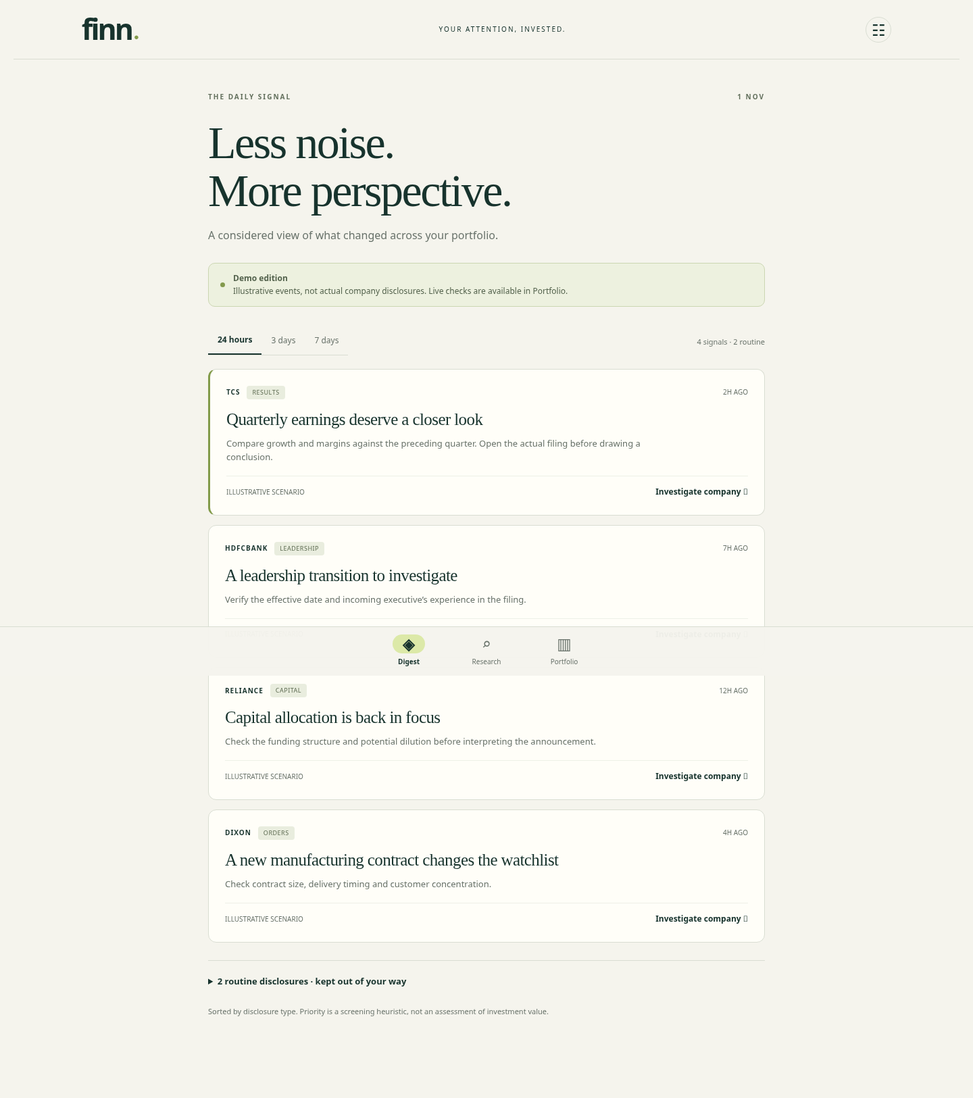
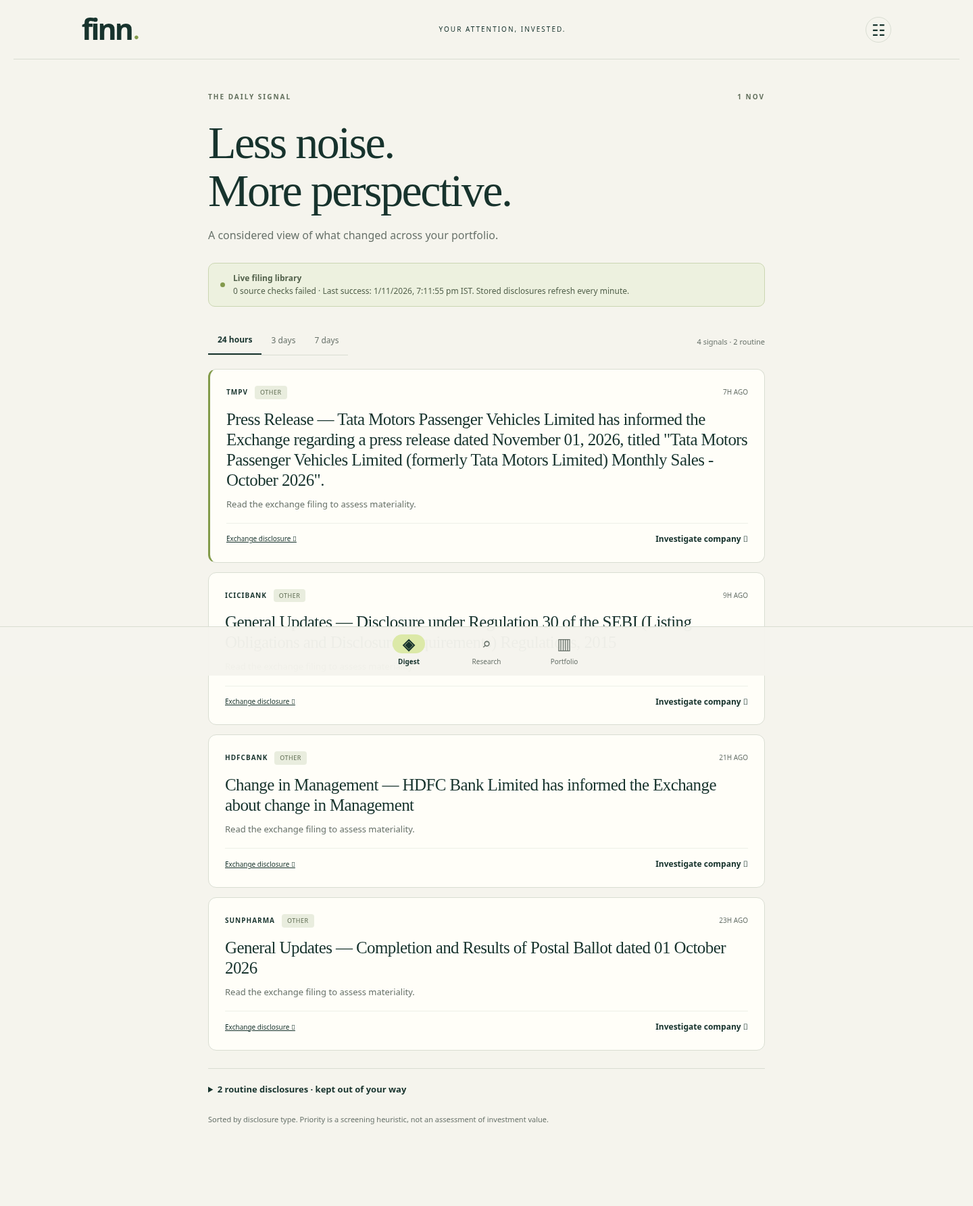
Start automatic ingestion and resolve legacy Tata Motors symbol

diff --git a/tests/test_worker.py b/tests/test_worker.py
@@ -1,0 +1,48 @@
+import os
+import tempfile
+import threading
+import unittest
+from pathlib import Path
+from unittest.mock import MagicMock, patch
+from finn.core import db, PORTFOLIO
+from finn.ingestion import poll, run_worker
+from finn.providers import prices, announcements
+
+
+class WorkerTests(unittest.TestCase):
+ def test_stop_prevents_any_source_requests(self):
+  stop = threading.Event()
+  stop.set()
+  with patch('finn.ingestion.ingest') as ingest:
+   self.assertEqual(poll(['TCS'], stop_event=stop), [])
+   ingest.assert_not_called()
+
+ def test_poll_failure_does_not_stop_other_sources(self):
+  with patch('finn.ingestion.ingest', side_effect=[OSError('offline'), {}, [], {}]) as ingest:
+   self.assertEqual(poll(['TCS', 'INFY']), [{'ticker':'TCS','kind':'announcements'}])
+   self.assertEqual(ingest.call_count, 4)
+
+ def test_worker_polls_immediately_then_waits_interruptibly(self):
+  stop = MagicMock()
+  stop.is_set.return_value = False
+  stop.wait.return_value = True
+  with patch('finn.ingestion.poll', return_value=[]) as poll_once, patch('builtins.print'):
+   run_worker(900, stop, ['TMPV'])
+  poll_once.assert_called_once_with(['TMPV'], None, stop)
+  stop.wait.assert_called_once_with(900)
+  with self.assertRaises(ValueError): run_worker(1, stop)
+
+ def test_data_directory_can_be_mounted_independently(self):
+  with tempfile.TemporaryDirectory() as temp, patch.dict(os.environ, {'FINN_DATA_DIR':temp}):
+   with db() as con: con.execute("INSERT INTO documents VALUES ('test','TCS','Title','Annual report','','text','now')")
+   with db() as con: self.assertEqual(con.execute('SELECT count(*) FROM documents').fetchone()[0], 1)
+   self.assertTrue((Path(temp)/'finn.sqlite').exists())
+
+ def test_legacy_symbol_explains_successors_without_fetching(self):
+  with patch('finn.providers.fetch') as fetch:
+   for provider in (prices, announcements):
+    with self.assertRaisesRegex(ValueError,'TMPV.*TMCV'):
+     provider('TATAMOTORS.NS')
+   fetch.assert_not_called()
+  self.assertIn('TMPV', {row[0] for row in PORTFOLIO})
+  self.assertNotIn('TATAMOTORS', {row[0] for row in PORTFOLIO})

diff --git a/server.py b/server.py
@@ -4,10 +4,11 @@ import base64
 import io
 import json
 import math
+import threading
 from http.server import ThreadingHTTPServer, BaseHTTPRequestHandler
 from urllib.parse import urlparse,parse_qs
 from finn.core import ROOT, PORTFOLIO, add_document, research, db
-from finn.ingestion import ingest, digest
+from finn.ingestion import ingest, digest, run_worker
 
 class Handler(BaseHTTPRequestHandler):
  def send(self,status,data,ctype='application/json'):
@@ -59,9 +60,32 @@ class Handler(BaseHTTPRequestHandler):
   except (ValueError,TypeError,KeyError) as e: self.send(400,{'error':str(e)})
   except Exception: self.send(400,{'error':'Could not read this document. Try a text-based PDF or a UTF-8 text file.'})
 
-if __name__=='__main__':
- parser=argparse.ArgumentParser(); parser.add_argument('--host',default='127.0.0.1'); parser.add_argument('--port',type=int,default=8000); args=parser.parse_args()
- (ROOT/'data').mkdir(exist_ok=True)
+def main():
+ parser=argparse.ArgumentParser()
+ parser.add_argument('--host',default='127.0.0.1')
+ parser.add_argument('--port',type=int,default=8000)
+ parser.add_argument('--poll-interval',type=int,default=900,help='Seconds between portfolio polls; 0 disables the built-in worker')
+ args=parser.parse_args()
+ if args.poll_interval != 0 and args.poll_interval < 900:
+  parser.error('--poll-interval must be 0 or at least 900')
  with db(): pass
- print(f'FINN listening on {args.host}:{args.port}',flush=True)
- ThreadingHTTPServer((args.host,args.port),Handler).serve_forever()
+ server=ThreadingHTTPServer((args.host,args.port),Handler)
+ stop=threading.Event()
+ worker=None
+ if args.poll_interval:
+  worker=threading.Thread(target=run_worker,args=(args.poll_interval,stop),daemon=True,name='portfolio-ingestion')
+  worker.start()
+ print(f'FINN listening on {args.host}:{server.server_port}',flush=True)
+ try:
+  server.serve_forever()
+ except KeyboardInterrupt:
+  pass
+ finally:
+  stop.set()
+  server.server_close()
+  if worker is not None:
+   worker.join(timeout=2)
+
+
+if __name__=='__main__':
+ main()

diff --git a/finn/providers.py b/finn/providers.py
@@ -7,6 +7,12 @@ import urllib.parse
 import urllib.request
 from .core import ticker, classify, PRIORITY, alerts
 
+def market_symbol(value):
+ symbol = ticker(value)
+ if symbol.removesuffix('.NS') == 'TATAMOTORS':
+  raise ValueError('TATAMOTORS is a legacy NSE symbol. Choose TMPV (Tata Motors Passenger Vehicles) or TMCV (Tata Motors); histories are not merged.')
+ return symbol
+
 _cache={}
 def fetch(url,opener=None):
  if url in _cache and time.time()-_cache[url][0]<900: return _cache[url][1]
@@ -20,7 +26,7 @@ def fetch(url,opener=None):
  return data
 
 def prices(symbol,price_threshold=4,volume_threshold=2):
- symbol=ticker(symbol)
+ symbol=market_symbol(symbol)
  yahoo=symbol if symbol.endswith(('.NS','.BO')) else symbol+'.NS'
  result=fetch('https://query1.finance.yahoo.com/v8/finance/chart/'+urllib.parse.quote(yahoo)+'?range=3mo&interval=1d')['chart']
  if result.get('error'): raise ValueError(result['error'].get('description','Price source error'))
@@ -34,7 +40,7 @@ def prices(symbol,price_threshold=4,volume_threshold=2):
  return dict(output,ticker=symbol,close=rows[-1][1],as_of=dt.datetime.fromtimestamp(rows[-1][0],dt.timezone.utc).isoformat(),source='https://finance.yahoo.com/quote/'+urllib.parse.quote(yahoo),currency=chart['meta'].get('currency'),baseline_days=min(20,len(rows)-1),bars=[dict(as_of=dt.datetime.fromtimestamp(t,dt.timezone.utc).isoformat(),close=c,volume=v) for t,c,v in rows])
 
 def announcements(symbol):
- symbol=ticker(symbol).removesuffix('.NS')
+ symbol=market_symbol(symbol).removesuffix('.NS')
  if symbol.endswith('.BO'): raise ValueError('This filing adapter supports NSE symbols; BSE filings are not implemented.')
  opener=urllib.request.build_opener(urllib.request.HTTPCookieProcessor(http.cookiejar.CookieJar()))
  with opener.open(urllib.request.Request('https://www.nseindia.com',headers={'User-Agent':'Mozilla/5.0'}),timeout=15) as response: response.read(1024)

diff --git a/finn/ingestion.py b/finn/ingestion.py
@@ -53,7 +53,7 @@ def ingest(symbol, kind, path=None, price=4, volume=2):
   raise
 
 
-def digest(path=None, hours=48):
+def digest(path=None, hours=168):
  now = dt.datetime.now(dt.timezone.utc)
  cutoff = now - dt.timedelta(hours=hours)
  with storage(path) as con:
@@ -61,17 +61,31 @@ def digest(path=None, hours=48):
   status = [dict(row) for row in con.execute('SELECT * FROM ingestion_status ORDER BY ticker,kind')]
  items = [json.loads(row['payload']) for row in rows]
  universe = {symbol for symbol, _, _ in PORTFOLIO}
+ status = [entry for entry in status if entry['ticker'] in universe]
  items = [item for item in items if item['ticker'] in universe and cutoff <= dt.datetime.fromisoformat(item['timestamp']) <= now]
  items.sort(key=lambda item: (item['priority'], item['timestamp']), reverse=True)
  return {'mode': 'live', 'items': items, 'ingestion': status, 'as_of': now.isoformat()}
 
 
-def poll(symbols=None, path=None):
+def poll(symbols=None, path=None, stop_event=None):
  failures = []
  for symbol in symbols or [row[0] for row in PORTFOLIO]:
   for kind in ('announcements', 'prices'):
+   if stop_event is not None and stop_event.is_set():
+    return failures
    try:
     ingest(symbol, kind, path)
    except Exception:
     failures.append({'ticker': symbol, 'kind': kind})
  return failures
+
+
+def run_worker(interval, stop_event, symbols=None, path=None):
+ """Poll immediately, then wait interruptibly; keep upstream failures isolated."""
+ if interval < 900:
+  raise ValueError('Polling interval must be at least 900 seconds')
+ while not stop_event.is_set():
+  failures = poll(symbols, path, stop_event)
+  print(json.dumps({'ingestion_failures': failures}), flush=True)
+  if stop_event.wait(interval):
+   break

diff --git a/scripts/browser_check.py b/scripts/browser_check.py
@@ -9,10 +9,15 @@ with sync_playwright() as p:
  errors=[]
  page.on('pageerror',lambda e:errors.append(str(e)))
  page.goto('http://127.0.0.1:8000',wait_until='networkidle')
- page.locator('#digest .card').first.wait_for()
- assert page.locator('#digest .card').count()==4
- page.get_by_role('button',name='3 days',exact=True).click()
- assert page.locator('#digest .card').count()==5
+ page.wait_for_function("document.querySelector('#event-count').textContent.includes('signals')")
+ feed=page.request.get('http://127.0.0.1:8000/api/digest').json()
+ assert feed['mode']=='live'
+ for label,hours in [('24 hours',24),('3 days',72),('7 days',168)]:
+  page.get_by_role('button',name=label,exact=True).click()
+  expected=page.evaluate('(args)=>args.items.filter(e=>e.category!=="Routine" && (Date.now()-new Date(e.timestamp))/3600000<=args.hours).length',{'items':feed['items'],'hours':hours})
+  assert page.locator('#digest .card').count()==expected
+ assert page.locator('#digest a').count()==page.locator('#digest .card').count()
+ page.get_by_role('button',name='24 hours',exact=True).click()
  assert page.evaluate('document.documentElement.scrollWidth <= innerWidth')
  (ROOT/'artifacts').mkdir(exist_ok=True)
  page.screenshot(path=str(ROOT/'artifacts/mobile-digest.png'),full_page=True,animations='disabled')

diff --git a/finn/core.py b/finn/core.py
@@ -1,5 +1,6 @@
 import datetime as dt
 import hashlib
+import os
 import re
 import sqlite3
 from pathlib import Path
@@ -10,7 +11,7 @@ PORTFOLIO = [
  ('HDFCBANK','HDFC Bank','Banking'),('ICICIBANK','ICICI Bank','Banking'),
  ('INFY','Infosys','IT'),('BHARTIARTL','Bharti Airtel','Telecom'),
  ('ITC','ITC','Consumer'),('LT','Larsen & Toubro','Industrials'),
- ('SUNPHARMA','Sun Pharma','Healthcare'),('TATAMOTORS','Tata Motors','Auto'),
+ ('SUNPHARMA','Sun Pharma','Healthcare'),('TMPV','Tata Motors Passenger Vehicles','Auto'),
  ('TITAN','Titan','Consumer'),('ASIANPAINT','Asian Paints','Materials'),
  ('NTPC','NTPC','Utilities'),('TRENT','Trent','Retail'),
  ('DIXON','Dixon Technologies','Electronics'),('POLYCAB','Polycab India','Industrials'),
@@ -46,7 +47,7 @@ def alerts(closes, volumes, price_threshold=4, volume_threshold=2):
  'volume_ratio':round(ratio,2) if ratio is not None else None,'triggers':triggers}
 
 def db(path=None):
- target = Path(path) if path else ROOT/'data'/'finn.sqlite'
+ target = Path(path) if path else Path(os.environ.get('FINN_DATA_DIR', str(ROOT/'data')))/'finn.sqlite'
  target.parent.mkdir(parents=True, exist_ok=True)
  con=sqlite3.connect(target, timeout=30)
  con.row_factory=sqlite3.Row

diff --git a/scripts/ingest.py b/scripts/ingest.py
@@ -2,9 +2,8 @@
 """Run from the repository root: python -m scripts.ingest [--ticker TCS]."""
 import argparse
 import json
-import time
-from finn.core import ROOT
-from finn.ingestion import poll
+import threading
+from finn.ingestion import poll, run_worker
 
 if __name__ == '__main__':
  parser = argparse.ArgumentParser(description=__doc__)
@@ -13,10 +12,13 @@ if __name__ == '__main__':
  args = parser.parse_args()
  if args.interval and args.interval < 900:
   parser.error('--interval must be 0 or at least 900')
- (ROOT / 'data').mkdir(exist_ok=True)
- while True:
+ if args.interval:
+  stop = threading.Event()
+  try:
+   run_worker(args.interval, stop, args.ticker)
+  except KeyboardInterrupt:
+   stop.set()
+ else:
   failures = poll(args.ticker)
   print(json.dumps({'failures': failures}), flush=True)
-  if not args.interval:
-   raise SystemExit(bool(failures))
-  time.sleep(args.interval)
+  raise SystemExit(bool(failures))

diff --git a/tests/test_ingestion.py b/tests/test_ingestion.py
@@ -24,7 +24,8 @@ class IngestionTests(unittest.TestCase):
    ingest('TCS', 'announcements', self.path)
   with storage(self.path) as con:
    self.assertEqual(con.execute('SELECT count(*) FROM live_items').fetchone()[0], 3)
-  result = digest(self.path)
+  result = digest(self.path, hours=48)
+  self.assertEqual({i['id'] for i in digest(self.path)['items']}, {'123', 'old'})
   self.assertEqual([i['id'] for i in result['items']], ['123'])
   self.assertEqual(result['mode'], 'live')
 
@@ -61,6 +62,7 @@ class IngestionTests(unittest.TestCase):
   with patch('finn.providers.announcements', return_value=[self.filing(symbol='OTHER')]):
    ingest('OTHER', 'announcements', self.path)
   self.assertEqual(digest(self.path)['items'], [])
+  self.assertEqual(digest(self.path)['ingestion'], [])
 
  def test_missing_exchange_id_is_stable_across_response_order(self):
   first = self.filing(None)

diff --git a/docs/LIVE_INGESTION.md b/docs/LIVE_INGESTION.md
@@ -7,11 +7,11 @@ python -m scripts.ingest --ticker TCS
 python -m scripts.ingest --interval 900
 ```
 
-The first command performs a targeted check; omit `--ticker` to ingest the 18-company portfolio. The second runs a foreground worker until stopped. Supervise it with your host's process manager alongside the web server, using the same persistent `data/` directory. It is not automatically deployed by render.yaml. Polls are sequential, with 15-minute source caching and a minimum 15-minute worker interval after each completed cycle. One-shot failures return a nonzero exit status; worker failures are reported and retried on the next cycle.
+The first command performs a targeted check; omit `--ticker` to ingest the 18-company portfolio. The server now starts a background worker automatically, polling immediately and waiting 900 seconds after each completed cycle. The existing Render start command inherits this behavior without a deployment change. `--poll-interval 0` disables it. The second command above is an alternative foreground worker; disable the built-in worker if supervising this alternative alongside the server. Both use `FINN_DATA_DIR` (default `data/`); point it at a persistent mounted directory. A mount must still be provisioned by the hosting account. Polls are sequential, with 15-minute source caching and a minimum 15-minute worker interval after each completed cycle. One-shot failures return a nonzero exit status; worker failures are reported and retried on the next cycle.
 
 SQLite stores exchange filings by symbol and exchange ID (content hash fallback) and completed daily bars by symbol and timestamp. Repeated polls update records without adding duplicate rows. Batches with missing dates/citations are rejected atomically. Failed sources retain their previous records and last-success time, with an explicit failed-attempt status. These records survive process restarts when data/ is persistent. Back up the SQLite database and supply disk capacity monitoring for extended use; retention pruning is not implemented.
 
-`/api/prices` and `/api/announcements` also persist successful fetches. `/api/digest` reads stored portfolio announcements from the last 48 hours, excludes future dates, and never fills gaps with demo data. Browser windows filter those records further. The digest shows filing links and ingestion failure status. Price records are persisted separately; they are not classified as exchange announcements. Browser thresholds apply to manual price requests; the worker uses default thresholds. No push notifications are sent.
+`/api/prices` and `/api/announcements` also persist successful fetches. `/api/digest` reads stored portfolio announcements from the last seven days, excludes future dates, and never fills gaps with demo data. Browser windows filter those records to 24 hours, three days or seven days. Status shows only current portfolio symbols, while old and ad-hoc records remain stored. The digest shows filing links and ingestion failure status. Price records are persisted separately; they are not classified as exchange announcements. Browser thresholds apply to manual price requests; the worker uses default thresholds. No push notifications are sent.
 
 # Real-document validation
 
@@ -32,3 +32,12 @@ Research validation passed against the actual Infosys FY2025 integrated annual r
 Sixteen automated tests cover core retrieval, durable ingestion, deduplication, invalid-batch atomicity, time windows, failure retention and real-shaped NSE missing attachments. HTTP smoke tests passed for the page, JavaScript, health and live digest. JavaScript syntax and Python compilation checks passed. The worker is implemented but no hosting service or environment was republished.
 
 Final portfolio run stored 36,397 announcements across 17 symbols and 1,088 EOD bars across 17 symbols. The remaining portfolio symbol returned no NSE disclosures. The 48-hour digest contained 25 actual disclosures when checked. CDSL's initially failed announcement request succeeded on retry. Yahoo returned HTTP 404 for TATAMOTORS; this remains an explicit failed check, without silently substituting another company/security. Portfolio tickers need ongoing maintenance after corporate actions. The local public-source research library contains both actual Infosys documents; runtime SQLite data is excluded from Git, so a fresh checkout must ingest data separately.
+
+
+## Follow-up implementation — 1 November 2026
+
+The official NSE security master identifies TMPV as Tata Motors Passenger Vehicles Limited, ISIN INE155A01022, and TMCV as Tata Motors Limited, ISIN INE1TAE01010. The mock portfolio now explicitly holds TMPV. Legacy TATAMOTORS live requests return an actionable validation error naming both choices; no price or filing histories are merged or deleted. Actual TMPV ingestion succeeded for 2,804 filings and completed EOD prices. See evaluation/nse-symbol-verification.json for sources and observed results.
+
+The server-started worker completed the full updated portfolio poll with zero source failures. Cancellation is checked between source requests; interval waits are interruptible. An in-flight source request may run until its existing timeout when shutting down. Use one server process for this single-user prototype; multiple processes would each create a worker unless disabled. Workers run while the process is alive; a free host may sleep or restart, and its ephemeral filesystem still does not provide durable hosting.
+
+Twenty-one unit tests pass. Updated Chromium checks compare the UI to actual stored filings rather than obsolete demo counts, including all digest windows, citations, mobile overflow, upload/retrieval and settings. Mobile and desktop screenshots were refreshed. No physical-phone testing, hosting deployment, environment publication or submission was performed.

diff --git a/README.md b/README.md
@@ -13,7 +13,7 @@ Open the server in your browser. The default binding is local. For a hosted demo
 
 ## Try it
 
-1. Digest: change the time window, expand routine disclosures, investigate a company. The digest reads persisted exchange filings; an empty library stays empty. Run the ingestion worker first (see below).
+1. Digest: change the time window, expand routine disclosures, investigate a company. The digest reads persisted exchange filings; an empty library stays empty. The server starts its ingestion worker automatically; first-run source checks may take a few minutes.
 2. Research: choose any valid NSE symbol or `.BO` symbol. Upload an actual primary-source PDF/text document; ask a focused question and inspect verbatim, page-numbered evidence. For a deterministic demonstration, use `docs/synthetic-transcript.txt` with symbol `DEMO`. That file is fictional and clearly marked.
 3. Portfolio: inspect the 18-company universe. Enter a symbol and request EOD prices or NSE filings. Failures are explicit; live failures never silently produce demo data.
 4. Settings: change price/volume thresholds, saved in browser local storage and applied on the next price request.
@@ -25,18 +25,18 @@ Open the server in your browser. The default binding is local. For a hosted demo
 node --check web/app.js
 ```
 
-Sixteen automated tests pass, including persistence, deduplication, time windows and source-failure retention. The following browser verification describes the earlier prototype: eight core tests passed. HTTP checks passed for the page, static assets, health, portfolio, digest, document ingestion and cited retrieval. PDF text extraction was verified with the supplied four-page brief. Chromium checks passed at 390px mobile and 1440px desktop widths: digest windows, upload, page-cited retrieval, saved settings and portfolio. No JavaScript errors or mobile horizontal overflow were observed. Screenshots are in `artifacts/`; repeat with `python3 scripts/browser_check.py` in a Playwright-equipped environment.
+Twenty-one automated tests pass, including durable ingestion, source-failure retention, worker cancellation, and configurable storage. Chromium checks pass at 390px mobile and 1440px desktop widths against live filings: all three digest windows, upload, page-cited retrieval, saved settings and portfolio. No JavaScript errors or mobile horizontal overflow were observed. Updated screenshots are in `artifacts/`; repeat with `.venv/bin/python scripts/browser_check.py` in a Playwright-equipped environment with the server running on port 8000.
 
 ## Current boundaries
 
-The digest now reads persistent live filing records. Manual source checks and a polling worker store filings and completed EOD bars in SQLite. Public internet access, TCS NSE filing ingestion and Yahoo EOD ingestion were verified. Research citation checks passed against Infosys’s actual FY2025 annual report and Q4 earnings transcript; manifests and PDF hashes are in `docs/evaluation/`. Research is extractive retrieval; it does not generate financial conclusions or independently verify uploaded provenance. Automatic primary-document discovery, financial comparisons and push notifications are not implemented.
+The digest now reads persistent live filing records. Manual source checks and the built-in polling worker store filings and completed EOD bars in SQLite. Public internet access, TCS NSE filing ingestion and Yahoo EOD ingestion were verified. Research citation checks passed against Infosys’s actual FY2025 annual report and Q4 earnings transcript; manifests and PDF hashes are in `docs/evaluation/`. Research is extractive retrieval; it does not generate financial conclusions or independently verify uploaded provenance. The former TATAMOTORS holding now uses officially verified TMPV; legacy lookups explain both successor symbols without merging histories. Automatic primary-document discovery, financial comparisons and push notifications are not implemented.
 
 ```bash
 python -m scripts.ingest --ticker TCS
 python -m scripts.ingest --interval 900
 ```
 
-Run the worker alongside the server with a shared persistent data directory. See `docs/LIVE_INGESTION.md` for operation, failure semantics, and a reproducible actual-PDF research validation command.
+The server polls immediately on startup and every 900 seconds after each cycle. Set `FINN_DATA_DIR` to a persistent mounted directory. Use `--poll-interval 0` when running the standalone worker above to avoid duplicate pollers. See `docs/LIVE_INGESTION.md` for operation, failure semantics, and a reproducible actual-PDF research validation command.
 
 See `docs/RESEARCH.md`, `docs/ARCHITECTURE.md`, `docs/COVERING_NOTE.md`, `docs/SUBMISSION_CHECKLIST.md` and `docs/BUILD_HISTORY.md`.
 

diff --git a/docs/BUILD_HISTORY.md b/docs/BUILD_HISTORY.md
@@ -18,3 +18,6 @@ Attach the actual conversation export/share link separately. Do not represent th
 10. Pushed to https://github.com/Glenap/Enam_competition on main. A fresh clone installed its dependencies and passed all eight core tests. Render deployment, live-source validation and submission remain blocked on account access, network settings and an authentic conversation export.
 
 11. Continued implementation on main: added durable filing/EOD ingestion, polling worker, deduplication, failure retention, indexed UTC time windows and a real-source digest with minute refreshes. The approved execution path verified internet access; initial sandbox-only proxy failures did not describe runtime connectivity. Actual portfolio ingestion stored 36,397 disclosures and 1,088 daily bars. TATAMOTORS Yahoo prices still returned HTTP 404. Validated actual Infosys FY2025 annual-report and Q4 transcript quotes against physical PDF pages, recorded source hashes and reusable evaluation manifests, and indexed the real documents locally. Sixteen tests, JavaScript syntax, Python compilation and HTTP checks passed, including real digest records and research citations. No environment or hosting service was republished.
+
+
+12. Finished the legacy-symbol and startup-polling follow-up. Verified TMPV and TMCV against the official NSE security master, explicitly replaced the mock holding with TMPV and retained separate historical symbols. Actual TMPV filing/price ingestion succeeded; the server's default background poll completed with no source failures. Added FINN_DATA_DIR for persistent mounts and cooperative worker cancellation. Corrected the digest backend to supply all seven days supported by the UI, filtered portfolio status to current symbols, updated browser checks to use real data, and refreshed mobile/desktop screenshots. Twenty-one tests, JavaScript syntax and Chromium checks passed. Deployment/submission remained outside this implementation step; no environment was republished.

diff --git a/docs/ARCHITECTURE.md b/docs/ARCHITECTURE.md
@@ -23,4 +23,4 @@ Local single-user tool, no authentication or tenant separation. All uploads are 
 
 The source URL is a citation only and is never server-fetched, avoiding arbitrary URL-fetch SSRF. Browser output is escaped; citation links allow HTTPS only. A restrictive CSP prohibits external scripts and framing. No credentials or document content are printed by application logging.
 
-The digest now reads durable portfolio announcements from SQLite, with exchange-ID deduplication, timestamp validation and failed-attempt tracking. `finn/ingestion.py` persists completed price bars separately. `python -m scripts.ingest --interval 900` runs the optional polling worker; manual source endpoints also persist their responses. See LIVE_INGESTION.md. Actual TCS NSE and Yahoo responses were verified in this session; see LIVE_INGESTION.md for results and remaining limits. A real investment agent additionally needs verified financial extraction and a grounded reasoning layer with explicit abstention.
+The digest now reads durable portfolio announcements from SQLite, with exchange-ID deduplication, timestamp validation and failed-attempt tracking. `finn/ingestion.py` persists completed price bars separately. The server starts an immediate polling worker by default with a 900-second interval after each cycle; `--poll-interval 0` disables it. `python -m scripts.ingest --interval 900` remains an alternative foreground worker. `FINN_DATA_DIR` selects persistent storage; Manual source endpoints also persist their responses. The digest serves seven days for the UI’s three windows and excludes retired/ad-hoc symbols from portfolio status. See LIVE_INGESTION.md. Actual TCS NSE and Yahoo responses were verified in this session; see LIVE_INGESTION.md for results and remaining limits. A real investment agent additionally needs verified financial extraction and a grounded reasoning layer with explicit abstention.
